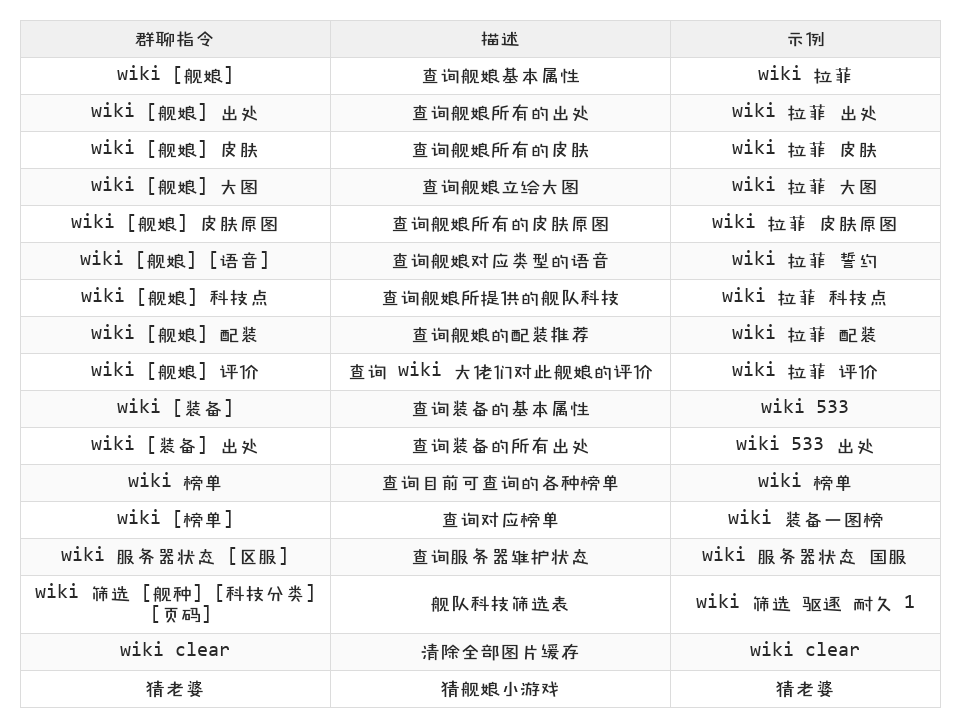
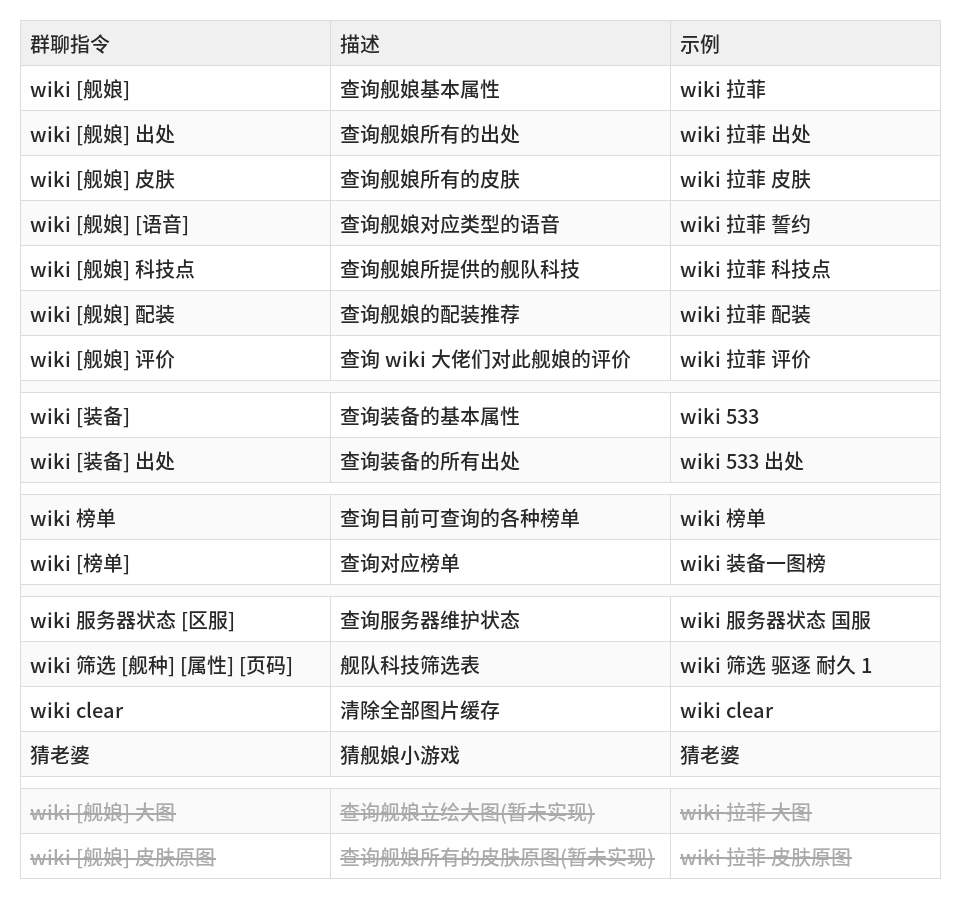
feat: 帮助图/语音表样式重做、服务器状态块圆角；清理大建卡池与头像映射死代码
- 删除 assets/config/active_pool.json（大建功能已移除）
- 清理 name_list.py 头像映射、text.py load_index()、plugin.py 对应 import
- drawing.py：服务器状态红绿状态块改为圆角(radius=5)，与整体卡片样式统一
- help.png：字体统一为思源黑体、文字左对齐；未实现功能(大图/皮肤原图)置底
  加删除线标注(暂未实现)；分类间加空行分隔；筛选占位符[科技分类]改[属性]
- voice.png：同步新样式

diff --git a/src/blhxwiki/data/name_list.py b/src/blhxwiki/data/name_list.py
@@ -6,17 +6,15 @@ from __future__ import annotations
 
 import asyncio
 import json
-import re
 import time
 from pathlib import Path
-from urllib.parse import quote, urljoin
+from urllib.parse import quote
 
 from blhxwiki.utils.http_utils import get as http_get
 from blhxwiki.parser.wiki_parser import BASE_URL, parse_html
 
 SHIP_LIST_URL = BASE_URL + quote("舰娘图鉴")
 EQUIP_LIST_URL = BASE_URL + quote("装备")
-BUILD_SIM_URL = BASE_URL + quote("建造模拟器")
 CACHE_TTL = 7 * 24 * 3600
 
 
@@ -27,16 +25,12 @@ class NameList:
         self.path = Path(data_dir) / "names.json"
         self.ships: list[str] = []
         self.equips: list[str] = []
-        self.icons: dict[str, str] = {}
         self.updated_at = 0.0
         self._load()
 
     @property
     def all(self) -> list[str]:
         return self.ships + self.equips
-
-    def icon_url(self, name: str) -> str | None:
-        return self.icons.get(name)
 
     def _load(self) -> None:
         if not self.path.exists():
@@ -45,7 +39,6 @@ class NameList:
             payload = json.loads(self.path.read_text(encoding="utf-8"))
             self.ships = [str(item) for item in payload.get("ships", [])]
             self.equips = [str(item) for item in payload.get("equips", [])]
-            self.icons = {str(k): str(v) for k, v in payload.get("icons", {}).items()}
             self.updated_at = float(payload.get("updated_at", 0))
         except (OSError, ValueError, TypeError):
             pass
@@ -57,7 +50,6 @@ class NameList:
                 {
                     "ships": self.ships,
                     "equips": self.equips,
-                    "icons": self.icons,
                     "updated_at": self.updated_at,
                 },
                 ensure_ascii=False,
@@ -69,20 +61,17 @@ class NameList:
         return not self.ships or time.time() - self.updated_at > CACHE_TTL
 
     async def refresh(self, force: bool = False) -> bool:
-        """刷新名称列表、头像映射与常驻池；成功返回 True。"""
+        """刷新名称列表；成功返回 True。"""
         if not force and not self.stale():
             return True
 
         ships = await _fetch_ship_names()
         equips = await _fetch_equip_names()
-        icons = await _fetch_icon_map()
         if ships:
             self.ships = ships
         if equips:
             self.equips = equips
-        if icons:
-            self.icons = icons
-        if ships or equips or icons:
+        if ships or equips:
             self.updated_at = time.time()
             self._save()
 
@@ -120,27 +109,6 @@ async def _fetch_equip_names() -> list[str]:
         if title:
             names.append(title.replace(" ", "_").lower())
     return names
-
-
-async def _fetch_icon_map() -> dict[str, str]:
-    """舰娘头像映射：名称 → 原图 URL。"""
-    html = await http_get(SHIP_LIST_URL)
-    if not html:
-        return {}
-    soup = parse_html(html)
-    container = soup.select_one("div#CardSelectTr")
-    if container is None:
-        return {}
-    icons: dict[str, str] = {}
-    for img in container.select("img"):
-        src = img.get("src", "")
-        name = img.get("alt", "").replace("头像.jpg", "")
-        if not name or name.startswith("舰娘头像") or not src:
-            continue
-        url = src.replace("/thumb", "")
-        url = re.split(r"/60px", url)[0]
-        icons[name] = urljoin(BASE_URL, url)
-    return icons
 
 
 async def refresh_in_background(names: NameList, logger=None) -> None:

diff --git a/src/blhxwiki/paint/drawing.py b/src/blhxwiki/paint/drawing.py
@@ -349,7 +349,7 @@ def generate_server_state_image(
             draw.rounded_rectangle((x, y, x + card_w, y + card_h), radius=14, fill=(255, 255, 255), outline=(220, 224, 230))
             draw.text((x + 16, y + (card_h - measure.textbbox((0, 0), item["name"], font=font_body)[3]) // 2), item["name"], font=font_body, fill=(33, 37, 41))
             color = (220, 53, 69) if item.get("maintenance") else (25, 135, 84)
-            draw.rectangle((x + card_w - 34, y + (card_h - 18) // 2, x + card_w - 16, y + (card_h + 18) // 2), fill=color)
+            draw.rounded_rectangle((x + card_w - 34, y + (card_h - 18) // 2, x + card_w - 16, y + (card_h + 18) // 2), radius=5, fill=color)
         top += section_h + gap
 
     output = io.BytesIO(); image.save(output, "PNG"); output.seek(0); return output

diff --git a/src/blhxwiki/utils/text.py b/src/blhxwiki/utils/text.py
@@ -100,18 +100,6 @@ def load_aliases(path: Path) -> dict[str, str]:
     return {str(key).lower(): str(value) for key, value in payload.items()}
 
 
-def load_index(path: Path) -> dict[str, str]:
-    if not path.exists():
-        return {}
-    try:
-        payload = json.loads(path.read_text(encoding="utf-8"))
-    except (OSError, ValueError):
-        return {}
-    if not isinstance(payload, dict):
-        return {}
-    return {str(key): str(value) for key, value in payload.items()}
-
-
 def pick_direct(results: list[str], keyword: str) -> str | None:
     normalized = normalize_keyword(keyword)
     if not normalized:

diff --git a/plugin.py b/plugin.py
@@ -37,7 +37,7 @@ from blhxwiki.paint.drawing import AssetLoader
 from blhxwiki.paint.renderer import Renderer
 from blhxwiki.utils.http_utils import http_client
 from blhxwiki.utils.server_state import close as close_server_state
-from blhxwiki.utils.text import load_aliases, load_index
+from blhxwiki.utils.text import load_aliases
 
 
 class PluginSectionConfig(PluginConfigBase):
